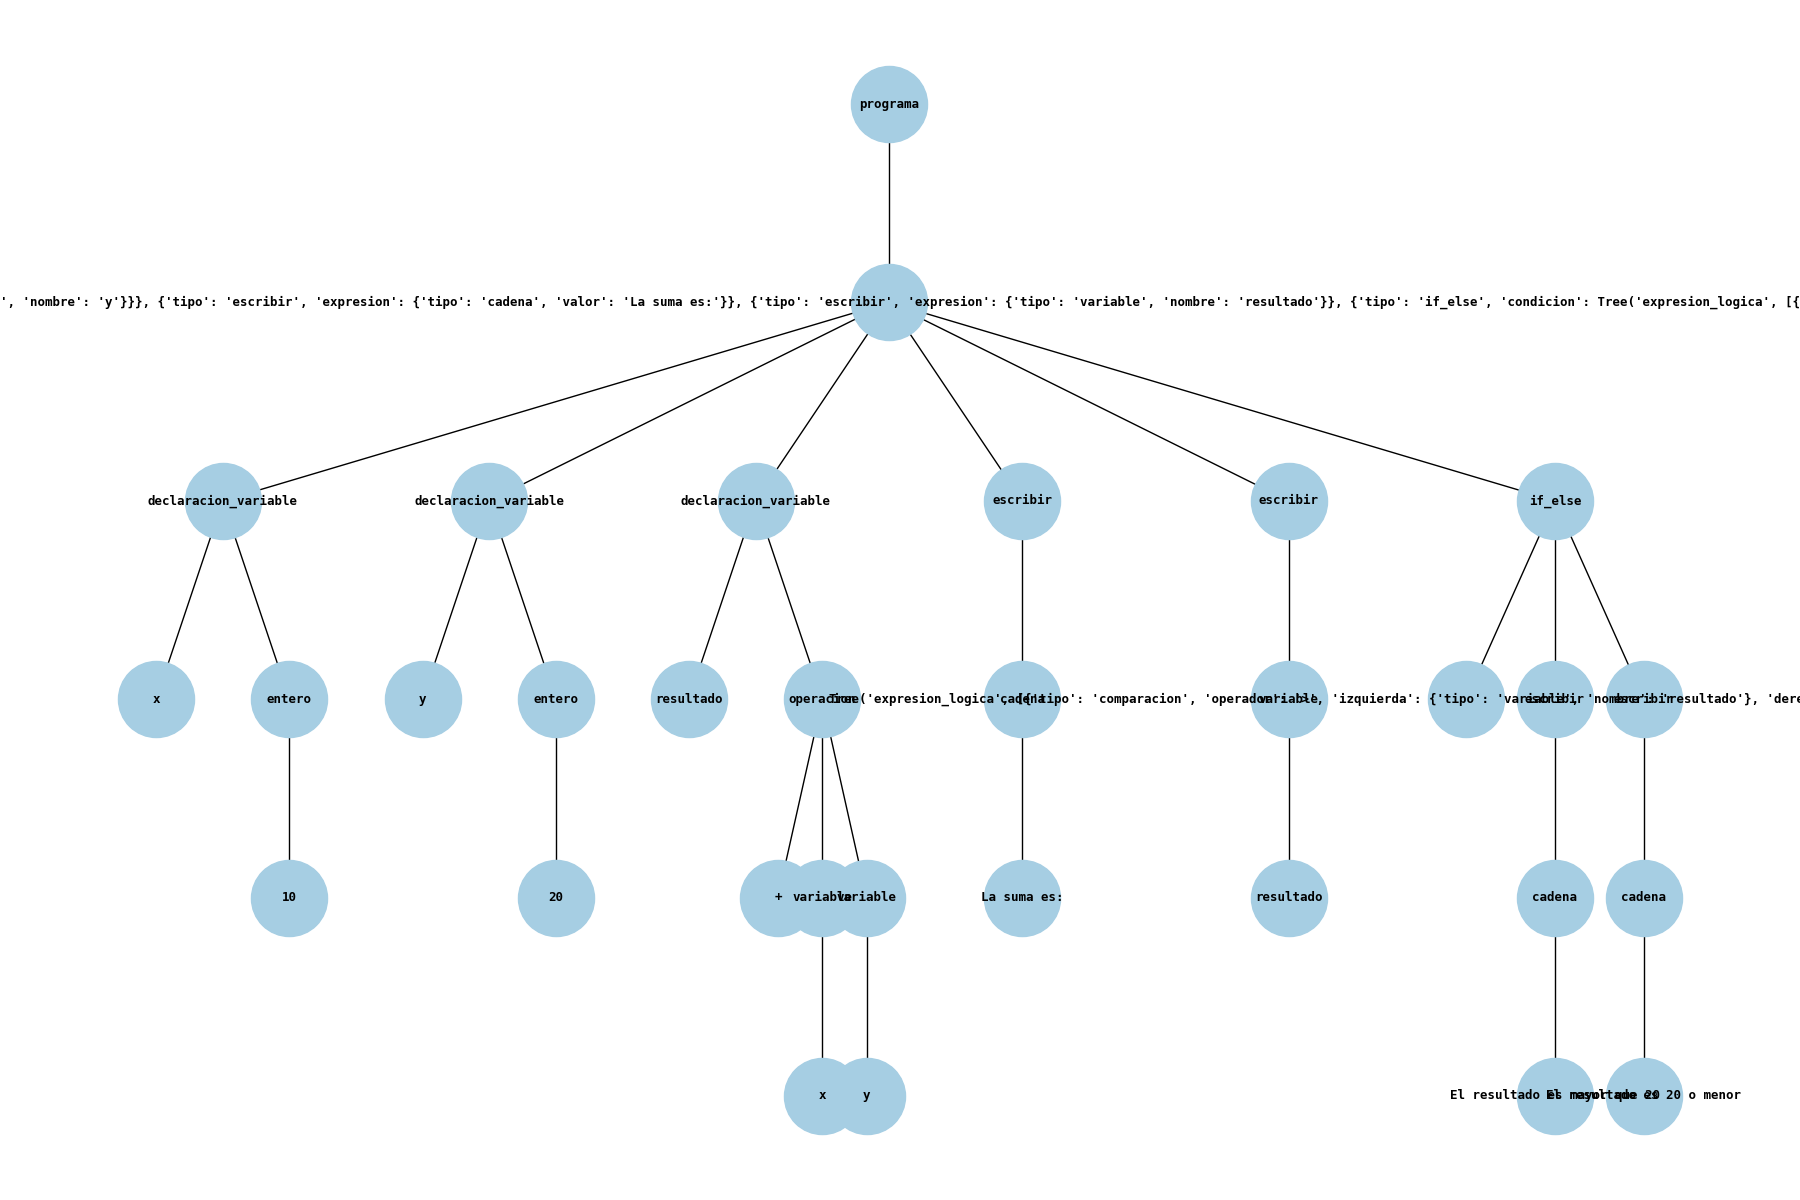
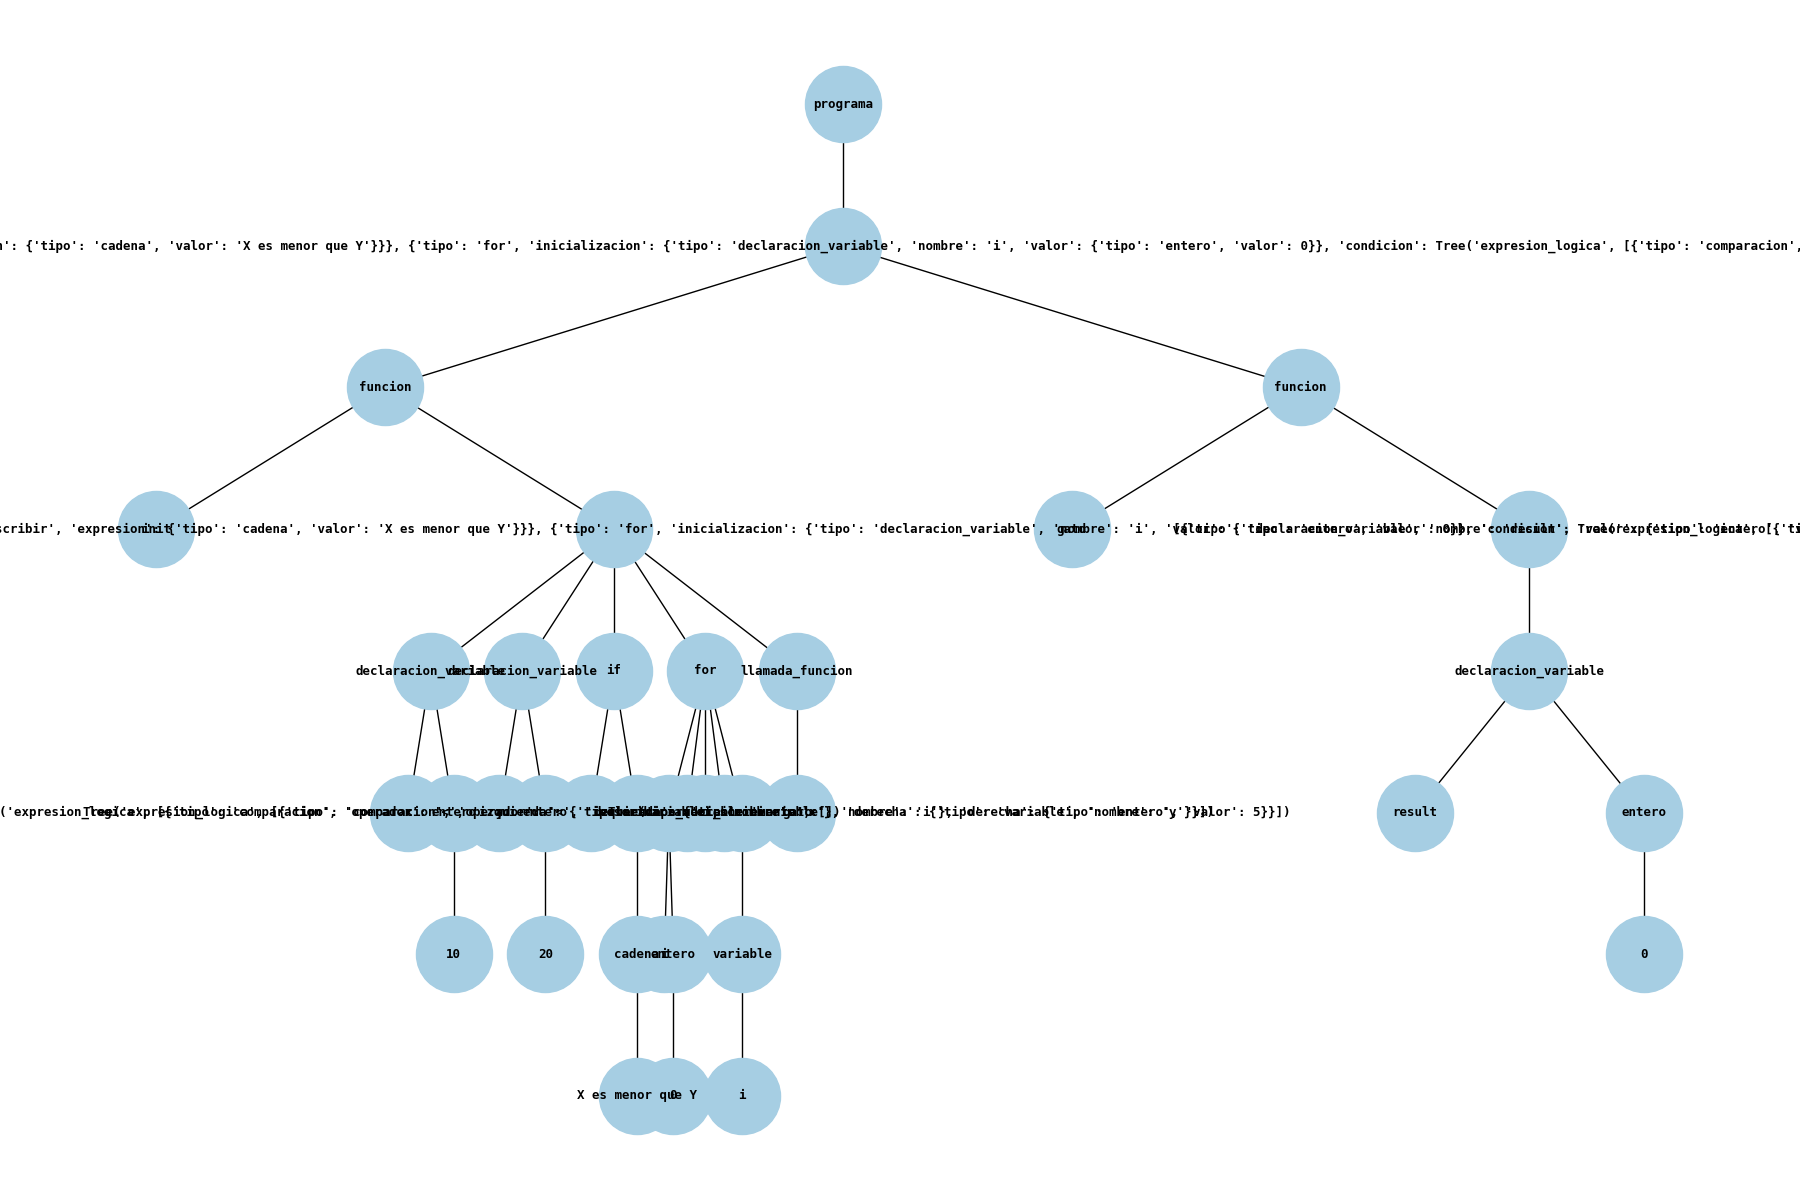
correcion en las funciones y en la suma de entero con flotantes

diff --git a/analizador_semantico.py b/analizador_semantico.py
@@ -1,11 +1,13 @@
 from lark import Lark, Transformer, v_args
 from lark.exceptions import UnexpectedInput, UnexpectedToken, UnexpectedCharacters
 
-# Definición de la gramática en Lark
+# Definición de la gramática en Lark - Modificamos la sintaxis de definición de funciones para incluir paréntesis
 grammar = r"""
     ?start: programa
 
-    programa: "func" "init" "{" instruccion+ "}"
+    programa: func+
+
+    func: "func" IDENTIFICADOR "()" "{" instruccion+ "}"
 
     ?instruccion: declaracion_variable
                 | asignacion
@@ -15,6 +17,7 @@ grammar = r"""
                 | estructura_for
                 | print_statement
                 | input_statement
+                | llamada_funcion
 
     declaracion_variable: "val" IDENTIFICADOR "=" expresion ";"
     asignacion: IDENTIFICADOR "=" expresion ";"
@@ -26,6 +29,7 @@ grammar = r"""
     
     print_statement: "escribir" "(" expresion ")" ";"
     input_statement: "leer" "(" IDENTIFICADOR ")" ";"
+    llamada_funcion: IDENTIFICADOR "(" ")" ";"
     
     ?operador_incremento: "++"
                         | "--"
@@ -63,16 +67,45 @@ grammar = r"""
 # Crear el parser de Lark
 parser = Lark(grammar, parser='lalr', debug=True)
 
-# Transformador para construir el AST
+
 @v_args(inline=True)
 class ASTBuilder(Transformer):
     def __init__(self):
         super().__init__()
         self.tabla_simbolos = {}
+        self.tabla_funciones = {}
+        self.llamadas_funciones = []  # Lista para almacenar las llamadas a funciones
         self.errores_semanticos = []
     
-    def programa(self, *instrucciones):
-        return {"tipo": "programa", "instrucciones": list(instrucciones)}
+    def programa(self, *funciones):
+        # Registrar todas las funciones primero
+        for func in funciones:
+            nombre_func = func.get("nombre")
+            self.tabla_funciones[nombre_func] = func
+        
+        # Verificar que haya una función init
+        if "init" not in self.tabla_funciones:
+            self.errores_semanticos.append("Error semántico: Debe existir una función 'init'")
+        
+        # Verificar las llamadas a funciones pendientes
+        for llamada in self.llamadas_funciones:
+            if llamada not in self.tabla_funciones:
+                self.errores_semanticos.append(f"Error semántico: Función '{llamada}' no declarada")
+        
+        return {"tipo": "programa", "funciones": list(funciones)}
+    
+    def func(self, nombre, *instrucciones):
+        nombre_func = str(nombre)
+        
+        # Devuelve el nodo de la función
+        return {"tipo": "funcion", "nombre": nombre_func, "instrucciones": list(instrucciones)}
+    
+    def llamada_funcion(self, nombre):
+        nombre_func = str(nombre)
+        # Registrar la llamada para verificarla al final
+        self.llamadas_funciones.append(nombre_func)
+        
+        return {"tipo": "llamada_funcion", "nombre": nombre_func}
     
     def declaracion_variable(self, identificador, expresion):
         nombre_var = str(identificador)
@@ -91,10 +124,10 @@ class ASTBuilder(Transformer):
         if nombre_var not in self.tabla_simbolos:
             self.errores_semanticos.append(f"Error semántico: Variable '{nombre_var}' no declarada")
         else:
-            
             tipo_var = self.tabla_simbolos[nombre_var]["tipo"]
             tipo_expr = self.inferir_tipo(expresion)
-            if tipo_var != tipo_expr and tipo_var != "any" and tipo_expr != "any":
+            # Permitir asignaciones entre enteros y flotantes
+            if not self.tipos_compatibles(tipo_var, tipo_expr):
                 self.errores_semanticos.append(f"Error semántico: Incompatibilidad de tipos en asignación a '{nombre_var}'")
         
         return {"tipo": "asignacion", "nombre": nombre_var, "valor": expresion}
@@ -109,7 +142,6 @@ class ASTBuilder(Transformer):
         return {"tipo": "while", "condicion": condicion, "cuerpo": cuerpo}
     
     def estructura_for(self, inicializacion, condicion, variable, operador, cuerpo):
-       
         nombre_var = str(variable)
         if nombre_var not in self.tabla_simbolos:
             self.errores_semanticos.append(f"Error semántico: Variable '{nombre_var}' no declarada en bucle for")
@@ -138,8 +170,7 @@ class ASTBuilder(Transformer):
         tipo_izq = self.inferir_tipo(izquierda)
         tipo_der = self.inferir_tipo(derecha)
         
-    
-        if tipo_izq != tipo_der and tipo_izq != "any" and tipo_der != "any":
+        if not self.tipos_compatibles(tipo_izq, tipo_der):
             self.errores_semanticos.append(f"Error semántico: Incompatibilidad de tipos en operación aritmética")
         
         return {"tipo": "operacion", "operador": str(operador), "izquierda": izquierda, "derecha": derecha}
@@ -148,14 +179,13 @@ class ASTBuilder(Transformer):
         tipo_izq = self.inferir_tipo(izquierda)
         tipo_der = self.inferir_tipo(derecha)
         
-        
-        if tipo_izq != tipo_der and tipo_izq != "any" and tipo_der != "any":
+        # Verificar compatibilidad de tipos en comparaciones
+        if not self.tipos_compatibles(tipo_izq, tipo_der):
             self.errores_semanticos.append(f"Error semántico: Incompatibilidad de tipos en comparación")
         
         return {"tipo": "comparacion", "operador": str(operador), "izquierda": izquierda, "derecha": derecha}
     
     def numero(self, valor):
-        
         if "." in str(valor):
             return {"tipo": "flotante", "valor": float(valor)}
         else:
@@ -163,22 +193,29 @@ class ASTBuilder(Transformer):
     
     def variable(self, nombre):
         nombre_var = str(nombre)
-       
         if nombre_var not in self.tabla_simbolos:
             self.errores_semanticos.append(f"Error semántico: Variable '{nombre_var}' no declarada")
         
         return {"tipo": "variable", "nombre": nombre_var}
     
     def cadena(self, valor):
-        
         valor_str = str(valor)[1:-1]
         return {"tipo": "cadena", "valor": valor_str}
     
     def parentesis(self, expresion):
         return expresion
     
+    def tipos_compatibles(self, tipo1, tipo2):
+        # Consideramos enteros y flotantes como compatibles entre sí
+        if tipo1 == tipo2:
+            return True
+        if (tipo1 == "entero" and tipo2 == "flotante") or (tipo1 == "flotante" and tipo2 == "entero"):
+            return True
+        if tipo1 == "any" or tipo2 == "any":
+            return True
+        return False
+    
     def inferir_tipo(self, expresion):
-       
         if isinstance(expresion, dict):
             if expresion["tipo"] == "entero":
                 return "entero"
@@ -192,20 +229,19 @@ class ASTBuilder(Transformer):
                     return self.tabla_simbolos[nombre_var]["tipo"]
                 return "any"
             elif expresion["tipo"] == "operacion":
-                
                 tipo_izq = self.inferir_tipo(expresion["izquierda"])
                 tipo_der = self.inferir_tipo(expresion["derecha"])
                 
-                
+                # Si ambos son del mismo tipo, devolver ese tipo
                 if tipo_izq == tipo_der:
                     return tipo_izq
-               
+                # Si uno es flotante, el resultado es flotante
                 elif "flotante" in [tipo_izq, tipo_der]:
                     return "flotante"
-              
+                # Si alguno es any, devolver any
                 elif "any" in [tipo_izq, tipo_der]:
                     return "any"
-               
+                # Otros casos (que no deberían ocurrir si la verificación de tipos es correcta)
                 else:
                     return "any"
         
@@ -217,7 +253,6 @@ def analizar_programa(codigo):
         # Parseo inicial
         arbol = parser.parse(codigo)
         
-
         transformador = ASTBuilder()
         ast = transformador.transform(arbol)
         
@@ -225,16 +260,10 @@ def analizar_programa(codigo):
             "exito": len(transformador.errores_semanticos) == 0,
             "ast": ast,
             "tabla_simbolos": transformador.tabla_simbolos,
+            "tabla_funciones": transformador.tabla_funciones,
             "errores": transformador.errores_semanticos
         }
     except UnexpectedToken as e:
-        
-        if e.token == "func":
-            return {
-                "exito": False,
-                "error_tipo": "sintáctico",
-                "mensaje": "El programa debe comenzar con 'func init {}'"
-            }
         return {
             "exito": False,
             "error_tipo": "sintáctico",
@@ -272,14 +301,11 @@ def imprimir_ast(ast, nivel=0):
 
 class Interprete:
     def __init__(self, debug=True):
-        
         self.memoria = {}
-     
         self.entradas = []
-     
         self.salidas = []
-       
         self.debug = debug
+        self.tabla_funciones = {}
     
     def establecer_entradas(self, entradas):
         self.entradas = entradas
@@ -294,16 +320,33 @@ class Interprete:
                 "errores": resultado_analisis.get("errores", [])
             }
         
-   
         try:
             self.memoria = {}  
             self.salidas = []  
             
             ast = resultado_analisis["ast"]
             print(">>> Iniciando ejecución del programa <<<")
+            
+            # Primero, registrar todas las funciones en la tabla de funciones
             if ast["tipo"] == "programa":
-                for instruccion in ast.get("instrucciones", []):
-                    self.ejecutar_nodo(instruccion)
+                funciones = ast.get("funciones", [])
+                
+                # Registramos todas las funciones primero
+                for funcion in funciones:
+                    nombre_func = funcion.get("nombre")
+                    self.tabla_funciones[nombre_func] = funcion
+                    if self.debug:
+                        print(f"Registrando función: {nombre_func}")
+                
+                # Luego buscamos y ejecutamos init
+                if "init" in self.tabla_funciones:
+                    self.ejecutar_funcion("init")
+                else:
+                    print("Error: No se encontró la función 'init'")
+                    return {
+                        "exito": False,
+                        "error": "No se encontró la función 'init'"
+                    }
             
             print(">>> Ejecución completada <<<")
             print(">>> Estado final de la memoria:", self.memoria)
@@ -320,13 +363,37 @@ class Interprete:
                 "error": f"Error en ejecución: {str(e)}"
             }
     
+    def ejecutar_funcion(self, nombre_funcion):
+        if self.debug:
+            print(f"EJECUTANDO FUNCIÓN: {nombre_funcion}")
+        
+        if nombre_funcion not in self.tabla_funciones:
+            print(f"Error: Función '{nombre_funcion}' no encontrada")
+            return
+        
+        funcion = self.tabla_funciones[nombre_funcion]
+        instrucciones = funcion.get("instrucciones", [])
+        
+        for instruccion in instrucciones:
+            self.ejecutar_nodo(instruccion)
+    
     def ejecutar_nodo(self, nodo):
         if isinstance(nodo, dict):
             tipo_nodo = nodo.get("tipo")
             
             if tipo_nodo == "programa":
-                for instruccion in nodo.get("instrucciones", []):
-                    self.ejecutar_nodo(instruccion)
+                for funcion in nodo.get("funciones", []):
+                    if funcion.get("nombre") == "init":
+                        self.ejecutar_nodo(funcion)
+            
+            elif tipo_nodo == "funcion":
+                if nodo.get("nombre") == "init":
+                    for instruccion in nodo.get("instrucciones", []):
+                        self.ejecutar_nodo(instruccion)
+            
+            elif tipo_nodo == "llamada_funcion":
+                nombre_func = nodo.get("nombre")
+                self.ejecutar_funcion(nombre_func)
             
             elif tipo_nodo == "declaracion_variable":
                 nombre = nodo.get("nombre")
@@ -433,55 +500,6 @@ class Interprete:
             for elemento in nodo:
                 self.ejecutar_nodo(elemento)
     
-        def evaluar_expresion(self, expresion):
-           """Evalúa una expresión y devuelve su valor"""
-           if not isinstance(expresion, dict):
-               return expresion
-           
-           tipo_expr = expresion.get("tipo")
-           
-           if tipo_expr == "entero":
-               return int(expresion.get("valor"))
-           elif tipo_expr == "flotante":
-               return float(expresion.get("valor"))
-           elif tipo_expr == "cadena":
-               return str(expresion.get("valor"))
-           elif tipo_expr == "variable":
-               nombre = expresion.get("nombre")
-               return self.memoria.get(nombre, 0)
-           elif tipo_expr == "operacion":
-               izq = self.evaluar_expresion(expresion.get("izquierda"))
-               der = self.evaluar_expresion(expresion.get("derecha"))
-               operador = expresion.get("operador")
-               
-               if operador == "+":
-                   return izq + der
-               elif operador == "-":
-                   return izq - der
-               elif operador == "*":
-                   return izq * der
-               elif operador == "/":
-                   return izq / der if der != 0 else 0
-           elif tipo_expr == "comparacion":
-               izq = self.evaluar_expresion(expresion.get("izquierda"))
-               der = self.evaluar_expresion(expresion.get("derecha"))
-               operador = expresion.get("operador")
-               
-               if operador == "==":
-                   return izq == der
-               elif operador == "!=":
-                   return izq != der
-               elif operador == "<":
-                   return izq < der
-               elif operador == ">":
-                   return izq > der
-               elif operador == "<=":
-                   return izq <= der
-               elif operador == ">=":
-                   return izq >= der
-           
-           return 0  # Valor por defecto
-   
     def evaluar_expresion(self, expresion):
         """Evalúa una expresión y devuelve su valor"""
         if not isinstance(expresion, dict):
@@ -529,4 +547,4 @@ class Interprete:
             elif operador == ">=":
                 return izq >= der
         
-        return 0  # Valor por defecto
+        return 0
